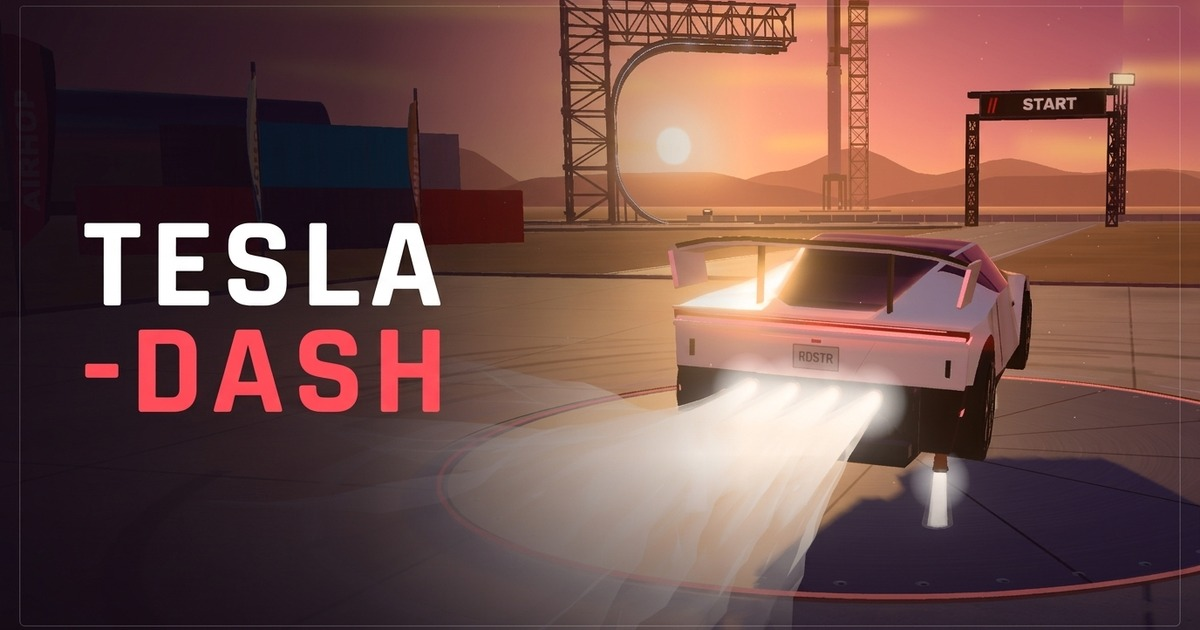
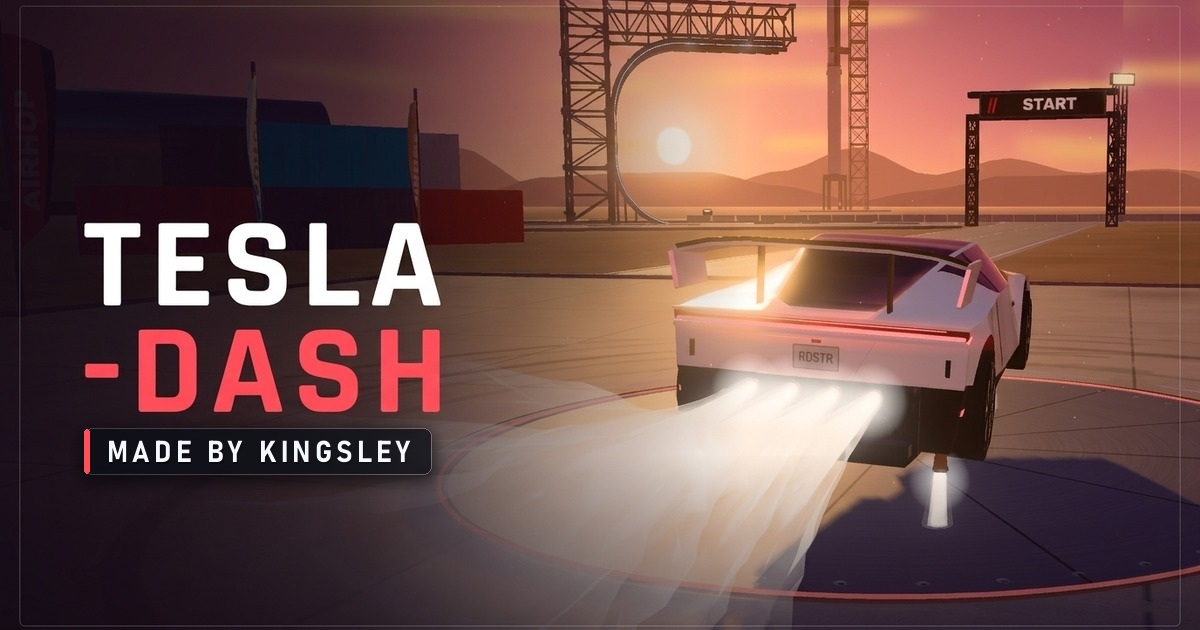
build: configure static Vercel dist/ deployment & add Kingsley creator credits
- Add build.js and package.json "build": "node build.js" to bundle index.html, assets/, and public/ into dist/ for static CDN deployment.
- Add vercel.json (framework: null, buildCommand: npm run build, outputDirectory: dist, /roadsterdash rewrites, manifest/assets headers) and ignore dist/ and .vercel in .gitignore.
- Fix /public/images/cybertruck_ref.jpg paths in index.html and root-scope public/manifest.webmanifest (/, /icons/*) so all static assets resolve cleanly without server.js.
- Add "MADE BY KINGSLEY" attribution badge on public/social-card.jpg and bottom-right "Made by me" footer with LinkedIn and GitHub icon links in index.html.

Changed region(s): [[0.0617, 0.6635, 0.37, 0.7841]]

diff --git a/index.html b/index.html
@@ -769,6 +769,54 @@ body.backend-notice #menu.screen {
 .menu-footer .footer-note {
   flex-basis: auto;
 }
+.menu-footer .footer-credit {
+  display: inline-flex;
+  align-items: center;
+  gap: 8px;
+  color: rgba(226, 232, 240, 0.78);
+  pointer-events: auto;
+}
+.footer-credit .credit-sep {
+  opacity: 0.45;
+}
+.footer-credit .credit-links {
+  display: inline-flex;
+  align-items: center;
+  gap: 6px;
+}
+.footer-credit .credit-icon-link {
+  display: inline-flex;
+  align-items: center;
+  justify-content: center;
+  width: 24px;
+  height: 24px;
+  border-radius: 6px;
+  color: rgba(226, 232, 240, 0.85);
+  background: rgba(255, 255, 255, 0.06);
+  border: 1px solid rgba(255, 255, 255, 0.12);
+  text-decoration: none;
+  pointer-events: auto;
+  transition: color 0.18s ease, background 0.18s ease, border-color 0.18s ease, transform 0.18s ease;
+}
+.footer-credit .credit-icon-link svg {
+  width: 14px;
+  height: 14px;
+  display: block;
+}
+.footer-credit .credit-icon-link.linkedin:hover,
+.footer-credit .credit-icon-link.linkedin:focus-visible {
+  color: #38bdf8;
+  background: rgba(10, 102, 194, 0.24);
+  border-color: rgba(56, 189, 248, 0.6);
+  transform: translateY(-1px);
+}
+.footer-credit .credit-icon-link.github:hover,
+.footer-credit .credit-icon-link.github:focus-visible {
+  color: #ffffff;
+  background: rgba(255, 255, 255, 0.16);
+  border-color: rgba(255, 255, 255, 0.45);
+  transform: translateY(-1px);
+}
 
 /* Scope auth-locked hiding to local mode so Google auth UI can be restored by removing body.local-mode */
 body.local-mode .store-locked,
@@ -847,6 +895,9 @@ body.local-mode #store-content {
   }
   .menu-footer .footer-note {
     flex-basis: 100%;
+  }
+  .menu-footer .footer-credit {
+    justify-content: flex-start;
   }
 }
 
@@ -1192,7 +1243,18 @@ body.local-mode #store-content {
               </div>
             </div>
           </nav>
-          <p class="footer-note">Tesla-Dash // Cyber Edition · Procedural 3D WebGL Runner · Local Storage Mode</p>
+          <div class="footer-note footer-credit">
+            <span>Made by me</span>
+            <span class="credit-sep" aria-hidden="true">·</span>
+            <div class="credit-links">
+              <a class="credit-icon-link linkedin" href="https://www.linkedin.com/in/kingsley-u-onuoha-67270422b/" target="_blank" rel="noopener noreferrer" aria-label="Kingsley Onuoha on LinkedIn" title="LinkedIn — Kingsley Onuoha">
+                <svg viewBox="0 0 24 24" aria-hidden="true"><path fill="currentColor" d="M19 3a2 2 0 0 1 2 2v14a2 2 0 0 1-2 2H5a2 2 0 0 1-2-2V5a2 2 0 0 1 2-2h14m-.5 15.5v-5.3a3.26 3.26 0 0 0-3.26-3.26c-.85 0-1.84.52-2.28 1.3v-1.11h-2.79v8.37h2.79v-4.93c0-.77.62-1.4 1.39-1.4a1.4 1.4 0 0 1 1.4 1.4v4.93h2.75M6.88 8.56a1.68 1.68 0 0 0 1.68-1.68c0-.93-.75-1.69-1.68-1.69a1.69 1.69 0 0 0-1.69 1.69c0 .93.76 1.68 1.69 1.68m1.39 9.94v-8.37H5.5v8.37h2.77z"/></svg>
+              </a>
+              <a class="credit-icon-link github" href="https://github.com/kingonuoha" target="_blank" rel="noopener noreferrer" aria-label="Kingsley Onuoha on GitHub" title="GitHub — @kingonuoha">
+                <svg viewBox="0 0 24 24" aria-hidden="true"><path fill="currentColor" d="M12 2A10 10 0 0 0 2 12c0 4.42 2.87 8.17 6.84 9.5.5.08.66-.23.66-.5v-1.69c-2.77.6-3.36-1.34-3.36-1.34-.46-1.16-1.11-1.47-1.11-1.47-.91-.62.07-.6.07-.6 1 .07 1.53 1.03 1.53 1.03.87 1.52 2.34 1.07 2.91.83.09-.65.35-1.09.63-1.34-2.22-.25-4.55-1.11-4.55-4.92 0-1.11.38-2 1.03-2.71-.1-.25-.45-1.29.1-2.64 0 0 .84-.27 2.75 1.02.79-.22 1.65-.33 2.5-.33.85 0 1.71.11 2.5.33 1.91-1.29 2.75-1.02 2.75-1.02.55 1.35.2 2.39.1 2.64.65.71 1.03 1.6 1.03 2.71 0 3.82-2.34 4.66-4.57 4.91.36.31.69.92.69 1.85V21c0 .27.16.59.67.5C19.14 20.16 22 16.42 22 12A10 10 0 0 0 12 2Z"/></svg>
+              </a>
+            </div>
+          </div>
         </div>
       </footer>
     </div>
@@ -1774,7 +1836,7 @@ body.local-mode #store-content {
         </div>
         <div class="veh-modal-body">
           <div class="veh-img-container">
-            <img id="veh-modal-img" src="/public/images/cybertruck_ref.jpg" alt="Tesla Cybertruck 4-View Reference Sheet" class="veh-ref-img" />
+            <img id="veh-modal-img" src="/images/cybertruck_ref.jpg" alt="Tesla Cybertruck 4-View Reference Sheet" class="veh-ref-img" />
             <div id="veh-modal-caption" class="veh-img-caption">PROCEDURAL THREE.JS REPLICATION // 4-VIEW ORTHOGRAPHIC BLUEPRINT</div>
           </div>
           <div id="veh-specs-grid" class="veh-specs-grid">
@@ -1805,7 +1867,7 @@ body.local-mode #store-content {
     const VEHICLE_SPECS = {
       cybertruck: {
         title: 'TESLA CYBERTRUCK // 3D BLUEPRINT',
-        img: '/public/images/cybertruck_ref.jpg',
+        img: '/images/cybertruck_ref.jpg',
         alt: 'Tesla Cybertruck 4-View Reference Sheet',
         caption: 'PROCEDURAL THREE.JS REPLICATION // 4-VIEW ORTHOGRAPHIC BLUEPRINT',
         specs: [

diff --git a/build.js b/build.js
@@ -1,0 +1,61 @@
+const fs = require('fs');
+const path = require('path');
+
+const ROOT = __dirname;
+const DIST = path.join(ROOT, 'dist');
+const SKIP_EXTS = new Set(['.bak', '.tmp']);
+const SKIP_NAMES = new Set(['Robotaxi three.js', 'Thumbs.db', '.DS_Store']);
+
+function copyDir(srcDir, dstDir) {
+  let count = 0;
+  fs.mkdirSync(dstDir, { recursive: true });
+  for (const entry of fs.readdirSync(srcDir, { withFileTypes: true })) {
+    if (SKIP_NAMES.has(entry.name)) continue;
+    const ext = path.extname(entry.name).toLowerCase();
+    if (!entry.isDirectory() && SKIP_EXTS.has(ext)) continue;
+
+    const src = path.join(srcDir, entry.name);
+    const dst = path.join(dstDir, entry.name);
+    if (entry.isDirectory()) {
+      count += copyDir(src, dst);
+    } else {
+      fs.copyFileSync(src, dst);
+      count++;
+    }
+  }
+  return count;
+}
+
+fs.rmSync(DIST, { recursive: true, force: true });
+fs.mkdirSync(DIST, { recursive: true });
+
+fs.copyFileSync(path.join(ROOT, 'index.html'), path.join(DIST, 'index.html'));
+let copied = 1;
+copied += copyDir(path.join(ROOT, 'assets'), path.join(DIST, 'assets'));
+copied += copyDir(path.join(ROOT, 'public'), DIST);
+
+const required = [
+  'index.html',
+  'assets/game.js',
+  'assets/game.css',
+  'assets/app-path.js',
+  'assets/auth-client.js',
+  'manifest.webmanifest',
+  'social-card.jpg',
+  'images/veh-roadster.png',
+  'images/veh-cybertruck.png',
+  'images/veh-robotaxi.png',
+  'images/cybertruck_ref.jpg',
+  'icons/roadster-model-192.png',
+  'items/ludicrous.png',
+  'items/shockwave.png'
+];
+
+for (const rel of required) {
+  const full = path.join(DIST, rel);
+  if (!fs.existsSync(full) || !fs.statSync(full).isFile()) {
+    throw new Error(`Build verification failed: missing dist/${rel}`);
+  }
+}
+
+console.log(`Built Tesla-Dash static bundle into dist/ (${copied} files verified).`);
